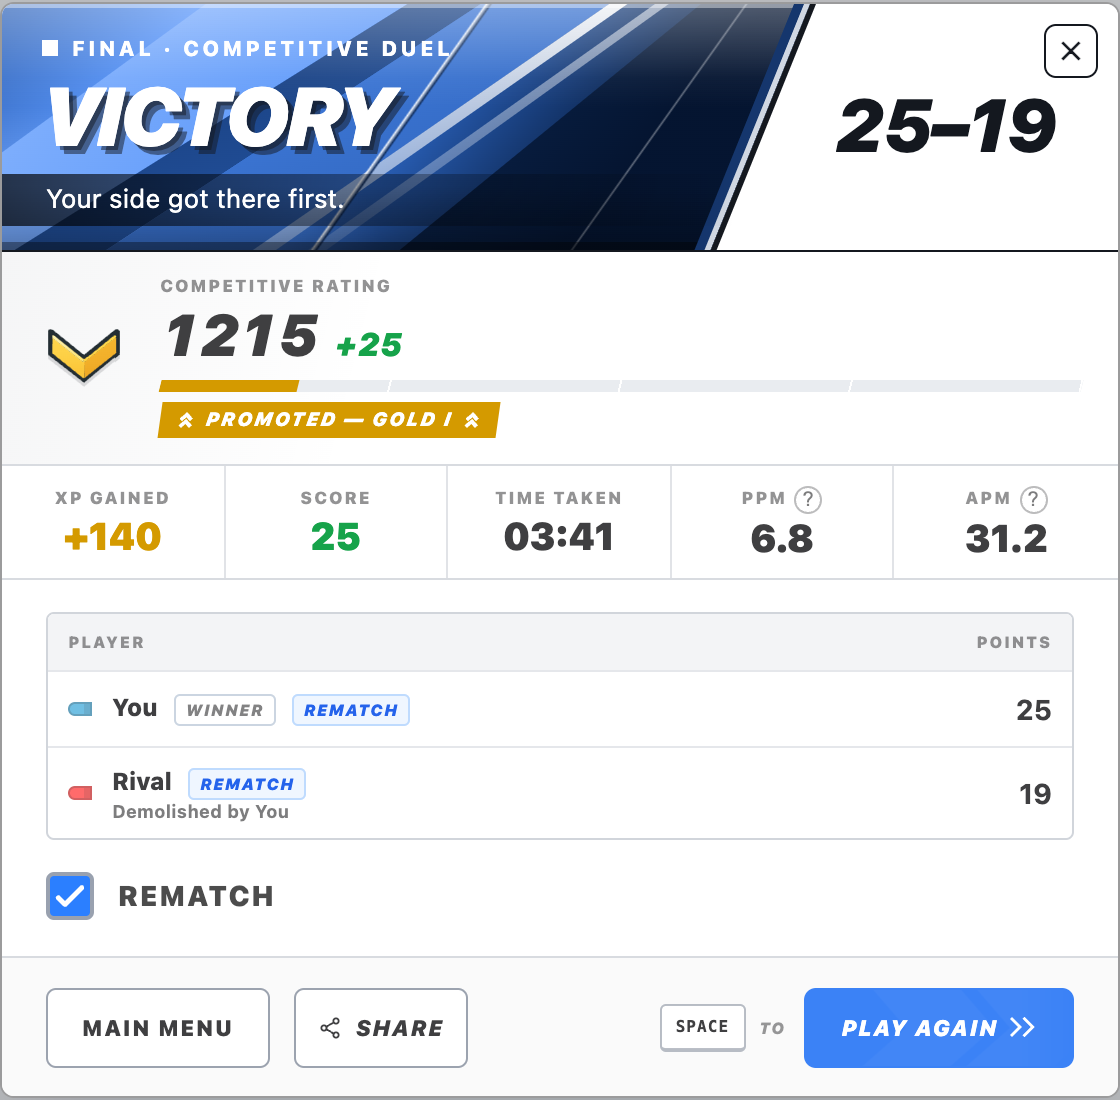
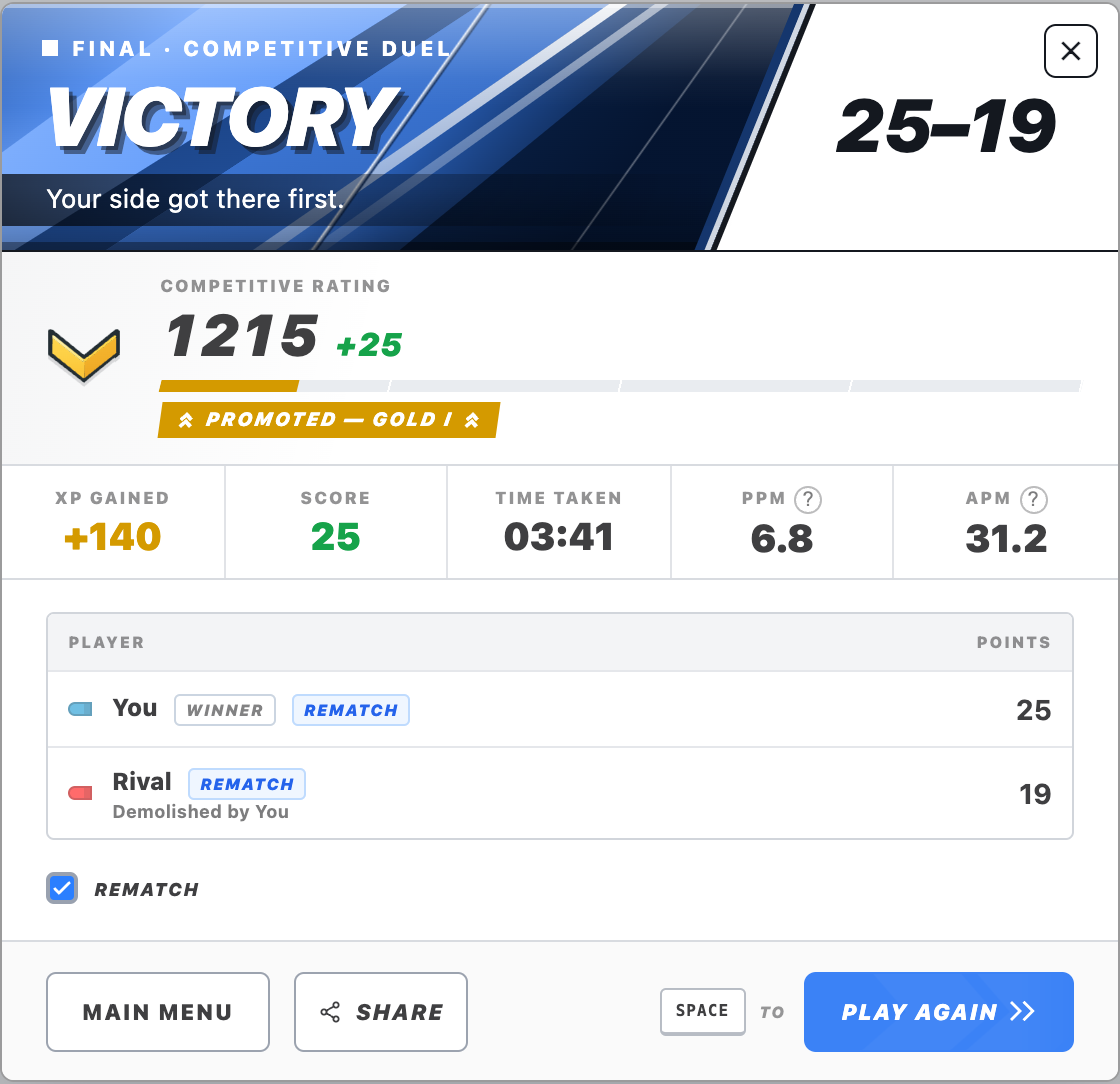
Bring the rematch label down to the size of the buttons beside it
It was carrying the home form's 14px upright type on a card whose controls are
all 9px italic, which made a checkbox read as a section heading. It now uses
`.game-shell-button`'s exact type, with the box down from 24px to 16px so the
two stay in proportion.

diff --git a/client/web/components/GameOverCard.tsx b/client/web/components/GameOverCard.tsx
@@ -404,7 +404,7 @@ const GameOverCard: React.FC<GameOverCardProps> = ({
                 box. Copied rather than shared because the two are the only
                 checkboxes in the app and a component for two call sites would
                 be the wrong abstraction to reach for first. */}
-            <label className="flex items-center gap-3 cursor-pointer group">
+            <label className="flex items-center gap-2 cursor-pointer group">
               <div className="relative">
                 <input
                   type="checkbox"
@@ -414,7 +414,7 @@ const GameOverCard: React.FC<GameOverCardProps> = ({
                   data-testid="rematch-checkbox"
                 />
                 <div
-                  className={`w-6 h-6 border-2 rounded transition-all group-hover:border-gray-400 ${
+                  className={`w-4 h-4 border-2 rounded transition-all group-hover:border-gray-400 ${
                     hasOptedIntoRematch(rematch, currentUserId)
                       ? 'bg-blue-500 border-blue-500'
                       : 'bg-white border-gray-300'
@@ -433,9 +433,7 @@ const GameOverCard: React.FC<GameOverCardProps> = ({
                   )}
                 </div>
               </div>
-              <span className="text-sm font-black uppercase tracking-1 text-black-70 select-none">
-                Rematch
-              </span>
+              <span className="game-over-rematch-label">Rematch</span>
             </label>
             {/* Only ever shown when ticking the box cannot actually produce a
                 game; silence there would read as the feature being broken. */}

diff --git a/client/web/index.css b/client/web/index.css
@@ -7019,6 +7019,19 @@ a.home-social-icon:hover {
   margin: 0 22px 18px;
 }
 
+/* The same type as `.game-shell-button`: the checkbox sits on the same card as
+   Main menu and Share, and a label two sizes larger than the buttons beside it
+   reads as a heading rather than a choice. */
+.game-over-rematch-label {
+  color: var(--game-graphite);
+  font-size: 9px;
+  font-style: italic;
+  font-weight: 900;
+  letter-spacing: 0.07em;
+  text-transform: uppercase;
+  user-select: none;
+}
+
 .game-over-rematch-blocked {
   margin-left: auto;
   color: #b45309;
